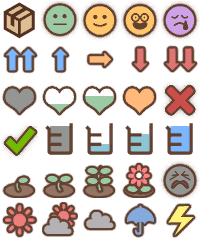
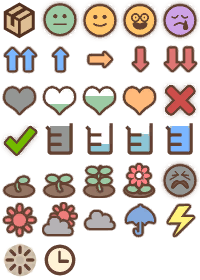
feat: 更新需求样式

diff --git a/web/src/components/DemandList.vue b/web/src/components/DemandList.vue
@@ -35,13 +35,7 @@
           :key="day"
           class="demand-change"
         >
-          <span class="demand">
-            <icon
-              v-for="(i) in demand(day, item.Id)"
-              :key="i"
-              class="mji mji-box"
-            />
-          </span>
+          <MjiBox class="demand" :count="demand(day, item.Id)"/>
           <span class="change">
             <icon
               v-if="!rawMode"
@@ -67,8 +61,13 @@ import { CraftworkData, type CraftworkObject } from "@/data/data";
 import { DemandUtils, PatternNames } from "@/model/data";
 import type { SolverProxy } from "@/model/solver";
 import { Component, Vue, Prop, Watch } from "vue-facing-decorator";
+import MjiBox from "./MjiBox.vue";
 
-@Component({})
+@Component({
+  components: {
+    MjiBox: MjiBox
+  }
+})
 export default class DemandList extends Vue {
   @Prop()
   solver!: SolverProxy;
@@ -218,10 +217,6 @@ export default class DemandList extends Vue {
     background-size: 1.75em 1.75em;
     vertical-align: middle;
   }
-}
-
-.mji-box+.mji-box {
-  margin-left: -20px !important;
 }
 
 .demand-item icon.mji {

diff --git a/web/src/views/AdvancedSolver.vue b/web/src/views/AdvancedSolver.vue
@@ -47,17 +47,12 @@
               :class="popularity(item.Id)"
             />
           </span>
-          <span
+          <MjiBox
             class="item-demand-box pure-u-6-24"
             :class="{ 'pure-u-6-24': customDemand, 'pure-u-10-24': !customDemand }"
             @click="changeDemandBox(item.Id)"
-          >
-            <icon
-              v-for="(i) in getDemandBox(demands[item.Id])"
-              :key="i"
-              class="mji mji-box"
-            />
-          </span>
+            :count="getDemandBox(demands[item.Id])"
+          />
           <input
             v-if="customDemand"
             v-model.number="demands[item.Id]"
@@ -104,11 +99,13 @@ import { DemandUtils } from "@/model/data";
 import { CraftworkData } from "@/data/data";
 import BatchView from "@/components/BatchView.vue";
 import DateBar from "@/components/DateBar.vue";
+import MjiBox from "@/components/MjiBox.vue";
 
 @Component({
   components: {
     BatchView: BatchView,
-    DateBar: DateBar
+    DateBar: DateBar,
+    MjiBox: MjiBox
   }
 })
 export default class AdvancedSolver extends Vue {

diff --git a/web/src/components/DemandPattern.vue b/web/src/components/DemandPattern.vue
@@ -116,11 +116,7 @@
           :key="day"
           class="recipe-demand hide-xs"
         >
-          <icon
-            v-for="(i) in getDemandIcons(item.Id, day)"
-            :key="i"
-            class="mji mji-box"
-          />
+          <MjiBox class="demand" :count="getDemandIcons(item.Id, day)"/>
           <span>[{{ getDemand(item.Id, day) }}]</span>
         </span>
       </div>
@@ -136,6 +132,7 @@ import { ToShareCode } from "@/model/share";
 import SortLabel from "./SortLabel.vue";
 import Dialog from "./Dialog.vue";
 import DemandShare from "./DemandShare.vue";
+import MjiBox from "./MjiBox.vue";
 
 @Component({
   emits: [
@@ -145,6 +142,7 @@ import DemandShare from "./DemandShare.vue";
     SortLabel: SortLabel,
     Popup: Dialog,
     DemandShare: DemandShare,
+    MjiBox: MjiBox
   }
 })
 export default class DemandPattern extends Vue {
@@ -325,7 +323,7 @@ export default class DemandPattern extends Vue {
   }
 }
 </script>
-<style lang="scss" scoped>
+<style lang="scss">
 .demand-share {
   width: 1000px;
   height: 85vh;

diff --git a/web/src/components/Step.vue b/web/src/components/Step.vue
@@ -31,16 +31,11 @@
             :class="popularity"
           />
         </span>
-        <span
+        <MjiBox
           v-if="demand !== undefined"
           class="step-demand"
-        >
-          <icon
-            v-for="(i) in demandBox"
-            :key="i"
-            class="mji mji-box"
-          />
-        </span>
+          :count="demandBox"
+        />
       </div>
     </div>
   </div>
@@ -52,10 +47,12 @@ import { DemandUtils, PatternNames } from "@/model/data";
 import "@/assets/items.css";
 import Close from "./Close.vue";
 import { CraftworkData, type CraftworkObject } from "@/data/data";
+import MjiBox from "./MjiBox.vue";
 
 @Component({
   components: {
-    Close: Close
+    Close: Close,
+    MjiBox: MjiBox
   },
   emits: ["remove"]
 })

diff --git a/web/src/assets/icons.css b/web/src/assets/icons.css
@@ -3,7 +3,7 @@ icon.mji {
 
     width: calc(var(--scale) * 40px);
     height: calc(var(--scale) * 40px);
-    background-size: calc(var(--scale) * 200px) calc(var(--scale) * 240px);
+    background-size: calc(var(--scale) * 200px) calc(var(--scale) * 280px);
     display: inline-block;
     vertical-align: bottom;
     background-image: url("./mjicraftdemandresearch_hr1.png");
@@ -38,6 +38,12 @@ icon.mji-change-1-down {
 }
 icon.mji-change-2-down {
     background-position: calc(var(--scale) * -160px) calc(var(--scale) * -40px);
+}
+icon.mji-no-box {
+    background-position: calc(var(--scale) * -0px) calc(var(--scale) * -240px);
+}
+icon.mji-clock {
+    background-position: calc(var(--scale) * -40px) calc(var(--scale) * -240px);
 }
 icon.blue-coin {
     --scale: 1;

diff --git a/web/src/components/MjiBox.vue b/web/src/components/MjiBox.vue
@@ -1,0 +1,23 @@
+<template>
+  <span>
+    <icon v-for="(i) in count" :key="i" class="mji mji-box" />
+    <icon v-if="!count" class="mji mji-no-box" />
+  </span>
+</template>
+
+<script lang="ts">
+import { Component, Vue, Prop } from "vue-facing-decorator";
+
+@Component({})
+export default class MjiBox extends Vue {
+  @Prop()
+  count!: number;
+}
+
+</script>
+
+<style>
+.mji-box+.mji-box {
+  margin-left: -20px;
+}
+</style>
